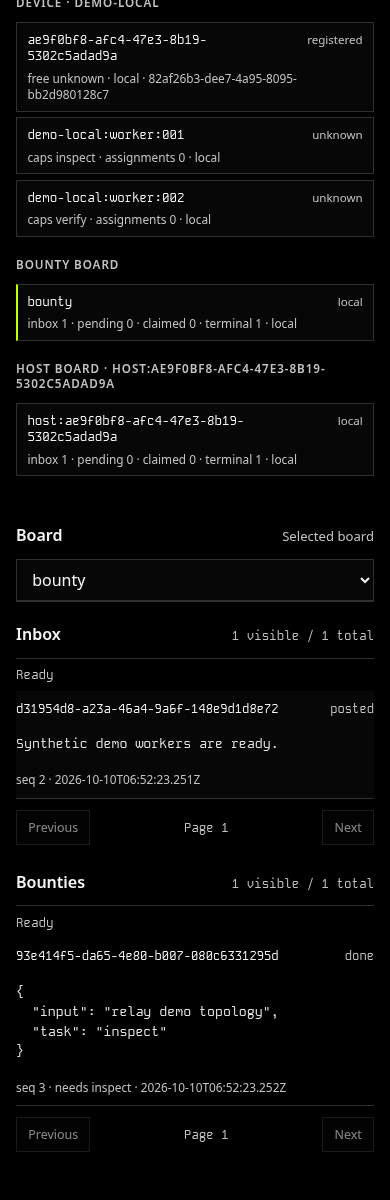
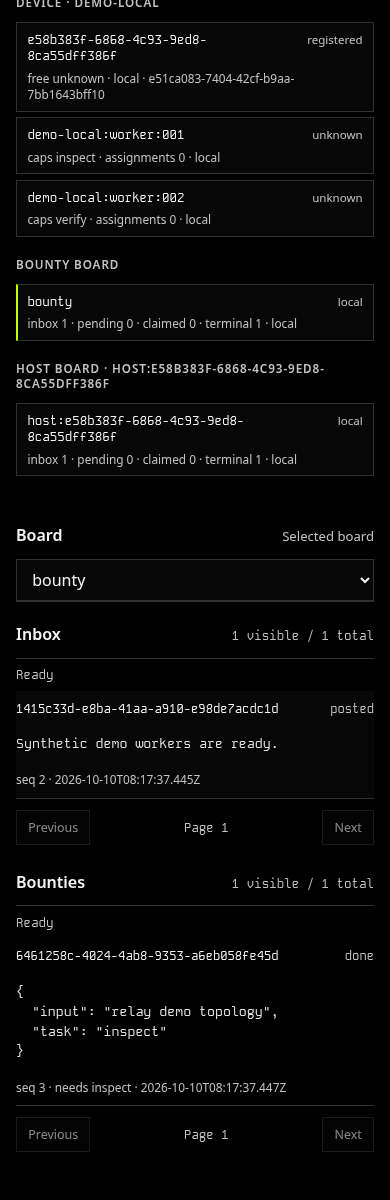
docs: publish captured UI evidence and qualification boundaries

diff --git a/docs/verification.md b/docs/verification.md
@@ -1,0 +1,74 @@
+# Verification
+
+## Native execution
+
+The regression suite passed with **93 tests, no failures or skips** on Linux
+with Node.js **24.21.0** and **26.11.1**. Earlier local runs also exercised
+Node.js 26.8.1. `npm run check` passed syntax, the nine public exports, strict
+consumer declarations, required modules, and the actual package-file manifest.
+The packaging check accepts the native npm 11 and npm 12 JSON layouts while
+retaining identity, entry-count, required-file and private-artifact checks.
+
+The executed cases cover durable admission and receipts, keyed conflicts,
+process contention and recovery, session/epoch fencing, honest JSON, immutable
+store roles, scoped enrollment and registration, local/hub capacity recovery,
+native child readiness and exact-lease results, current-auth transaction gates,
+scoped history and pruning, metadata-only feeds, and independent board panes.
+Test names identify their acceptance cases; a passing suite is not a claim
+that every subclause in the acceptance matrix or every deployment environment
+has been exercised.
+
+The basic, board, and recovery examples ran against disposable real stores.
+The documented CLI flow was also exercised with a root containing spaces,
+Unicode, literal dollar/percent characters and a backslash; ordinary reads
+hid payloads and a missing-root list created no state.
+The recovery example returned a new second attempt after expiry and persisted
+its acknowledgement. The network example returned addressed, bounty, and
+host-local acknowledgements through independent HTTP/HTTPS loopback
+locations. Its certificate and all credentials were temporary; TLS verification
+was not disabled.
+
+A dedicated two-authority HTTPS view test verifies the host body's authority,
+exact board/kind pages through the UI parser, separate viewer permissions,
+fixed-view credentials rather than the viewer bearer, and an unavailable target
+without a substitute local body page. Accepted reported topology remains usable
+when a body view is unavailable.
+
+## Rendered interface
+
+The committed [capture metadata](media/capture.json) records the actual browser,
+runtime, measured viewport/document/pixel geometry, selected board and pane row
+counts. It records no message body, token, session ID or private filesystem
+path. The images contain only synthetic demo data.
+
+Native [browser checks](media/browser-qa.json) exercised:
+
+- Authenticated selected-board Inbox and Bounties data at wide and narrow widths.
+- Visible keyboard focus and reduced-motion styling.
+- No measured document horizontal overflow or uncaught page runtime exceptions.
+- Metadata-only access retaining topology with denied, empty private panes.
+- Work-only access retaining Bounties while Inbox is denied.
+- Actual credential revocation clearing cached private rows and selection.
+- A real empty store, broker shutdown, and successful reconnect after restart.
+- HTML-like posted text remaining inert text, with no executable image element.
+
+The wide, narrow topology and narrow board captures were visually reviewed for
+readability, hierarchy, wrapping, alignment and clipping. Recorded images are
+not live telemetry or evidence of physical network deployment.
+
+## Open qualification boundaries
+
+- **A21:** separately authorized physical two-host LAN/Tailscale exchanges.
+- **A29:** actual private proxy/access-policy inspection and denied-third-device
+  observations.
+- Native process identity and launch qualification was performed on Linux;
+  Windows, macOS and Termux are not certified by these runs.
+- No paid model, real coding-agent runtime or existing agent session was used.
+  Native launch evidence uses the harmless configured Node child protocol.
+- Owner-specific artwork, additional presentation copy and visual approval are
+  separate from the backend/runtime evidence. No unsupplied marketing hero,
+  slogan, diagram or decorative asset is included.
+
+Relay does not configure firewall, Tailscale, public ingress, certificates,
+proxies or host services automatically. Local and loopback evidence must not
+be described as production LAN/Tailscale certification.

diff --git a/README.md b/README.md
@@ -3,14 +3,16 @@
 ## Quick start
 
 ```sh
+git clone https://github.com/PugzUI/Relay.git
+cd Relay
 npm ci
 npm run demo
 ```
 
 The demo uses a temporary local store, two synthetic workers, board posts,
 claims, persisted acknowledgements, and the resulting snapshot/audit records.
-It does not launch an agent runtime or start a network listener. The source
-checkout uses the existing local core implementation.
+It does not launch an agent runtime or start a network listener. No model
+provider or account is needed.
 
 To run the authenticated browser demo, start its disposable loopback listener
 in one terminal. This explicit mode defaults to port `4200` and five minutes;
@@ -18,13 +20,13 @@ it prints a private token-file path and the capture command, never the token or
 a session ID.
 
 ```sh
-RELAY_DEMO_TOKEN_FILE=/tmp/relay-demo.token npm run demo -- --serve
+RELAY_DEMO_TOKEN_FILE="${TMPDIR:-/tmp}/relay-demo.token" npm run demo -- --serve
 ```
 
 In a second terminal, run this while the demo is still running:
 
 ```sh
-RELAY_CAPTURE_TOKEN_FILE=/tmp/relay-demo.token npm run capture
+RELAY_CAPTURE_TOKEN_FILE="${TMPDIR:-/tmp}/relay-demo.token" npm run capture
 ```
 
 Choose another fixed port or bounded duration when needed:
@@ -41,6 +43,18 @@ and removes them when its duration ends or it receives `SIGINT`/`SIGTERM`. Run
 profile. Browser capture exercises the local configured path. Physical LAN and
 Tailscale qualification remains pending.
 
+## View
+
+![Topology and selected board panes](docs/media/readme.png)
+
+[Full-size topology](docs/media/topology.png) ·
+[Narrow topology](docs/media/topology-narrow.png) ·
+[Narrow board panes](docs/media/board-narrow.png) ·
+[Recorded capture metadata](docs/media/capture.json)
+
+The images are captures of the disposable authenticated demo, not mockups.
+The bearer field is cleared after connection; credentials stay in memory.
+
 ## CLI
 
 Local inspection and mutation use a selected store root. Read commands open it
@@ -53,7 +67,7 @@ node src/cli.mjs join workstation:worker:001 --root './relay data'
 printf '%s\n' '{"msg":"ready"}' | node src/cli.mjs send workstation:worker:001 --sid SESSION --root './relay data'
 ```
 
-Replace `SESSION` with the `sid` returned by `join`. A send or board post reads
+Replace `SESSION` with the session `id` returned by `join`. A send or board post reads
 one JSON envelope from stdin: `{ "msg": "text" }` or
 `{ "work": { "task": "inspect" } }`. Text is never classified as work.
 `--json` writes compact JSON; normal output escapes terminal control bytes.
@@ -82,8 +96,9 @@ and [topology](docs/topology.md).
 
 The [recovery example](examples/recovery.mjs) closes and reopens a disposable
 store around lease expiry. The [network example](examples/network.mjs) uses
-two loopback authorities with generated temporary credentials; its real
-receipt run remains pending network integration.
+two independent loopback authorities with temporary credentials and a trusted
+one-run HTTPS certificate. It produces addressed, bounty, and host-local
+acknowledgement receipts through the actual broker/client protocol.
 
 ## Delivery and authority
 
@@ -134,7 +149,9 @@ or geometry mismatch, horizontal overflow, browser runtime exceptions, or
 unavailable data. A successful run writes wide and narrow topology screenshots,
 a narrow board view, and measured browser, runtime, viewport, pixel, board, and
 timestamp metadata under `docs/media/`.
-No screenshot is included until a real disposable server produces one.
+The committed captures were exercised against the real local demo. Native
+Node.js 24 and 26 checks and regression suites are qualified on Linux; see
+[verification evidence and remaining boundaries](docs/verification.md).
 
 The supported runtime contract is Node.js `>=24.0.0` on a local filesystem.
 No runtime dependencies are declared. See [acceptance cases](docs/acceptance.md)

diff --git a/docs/network.md b/docs/network.md
@@ -27,10 +27,11 @@ identity; an uncertain lock is left for review, not removed by PID alone.
 
 ## Qualification status
 
-No LAN or Tailscale reachability, certificate, access-policy, two-host, or
-private-proxy qualification has been recorded for this checkout. A loopback
-HTTP/HTTPS harness can test protocol behavior, scopes, bounded bodies, and
-replay. It cannot prove physical-host reachability or tailnet policy.
+HTTP/HTTPS loopback protocol exchanges and the disposable network example
+have been exercised with real persisted receipts. This establishes local
+transport, authentication, scope, and recovery evidence; it does not establish
+physical-host reachability or tailnet policy. No physical LAN/Tailscale,
+private-route policy, or denied-third-device qualification is recorded.
 
 [`examples/network.mjs`](../examples/network.mjs) is a disposable same-machine
 HTTP/HTTPS exercise with independent hub and host stores, synthetic credentials
@@ -40,8 +41,16 @@ fixed loopback listener). It records an addressed message, hub bounty work,
 and host-local work. Port overrides are explicit environment values; a bind
 conflict stops the example. It requires the OpenSSL command to create its
 one-run loopback certificate. It does not configure LAN, Tailscale, or host
-policy, and has not yet been replayed against the missing network
-implementation.
+policy. The recorded native run produced addressed, bounty, and host-local
+acknowledgements across independent stores. If the browser demo occupies
+`4200`, select explicit alternative ports:
+
+```sh
+RELAY_DEMO_HUB_PORT=4210 RELAY_DEMO_HOST_PORT=4211 RELAY_DEMO_HTTPS_PORT=4212 node examples/network.mjs
+```
+
+See [verification boundaries](verification.md) for the distinction between
+same-machine protocol evidence and physical deployment qualification.
 
 Tailscale setup and private Serve policy are operator-owned deployment work.
 Relay commands and examples do not install Tailscale, alter firewall rules,
@@ -52,5 +61,8 @@ allowed/denied device observations for that run. There is no qualified version
 or route evidence to pin here yet.
 
 Do not treat a hostname, reported device, or tailnet membership as Relay
-authorization. Do not put tokens, session IDs, message bodies, credential
-paths, or private-key material in logs, URLs, or captures.
+authorization. Keep tokens, session IDs, private message bodies and
+private-key material out of diagnostic logs, URLs and shared captures. The
+committed board captures use only synthetic demo data. The operator-initiated
+disposable demo prints its own token-file reference, never the bearer value;
+do not copy that private reference into shared logs.

diff --git a/docs/topology.md b/docs/topology.md
@@ -26,8 +26,11 @@ the live origin, selected board, pane row counts, measured viewport and document
 width, visible keyboard focus, reduced-motion styles, and uncaught runtime
 exception count. Metadata contains board and row counts but no pane bodies,
 tokens, session IDs, or local paths. It requires the actual disposable demo
-server; it does not mock UI responses. Screenshots and visual review remain
-pending a successful run against the merged backend.
+server; it does not mock UI responses. The committed images and
+[capture metadata](media/capture.json) are from a real authenticated run.
+Wide and narrow layouts were visually reviewed. Native browser checks also
+exercised metadata-only and work-only permissions, credential revocation,
+an empty store, actual broker stop/restart, and HTML-like text rendered inertly.
 
 The topology grant is metadata-only. Inbox and work bodies require separate
 permissions. Text is rendered as text, never HTML or terminal control. Board
